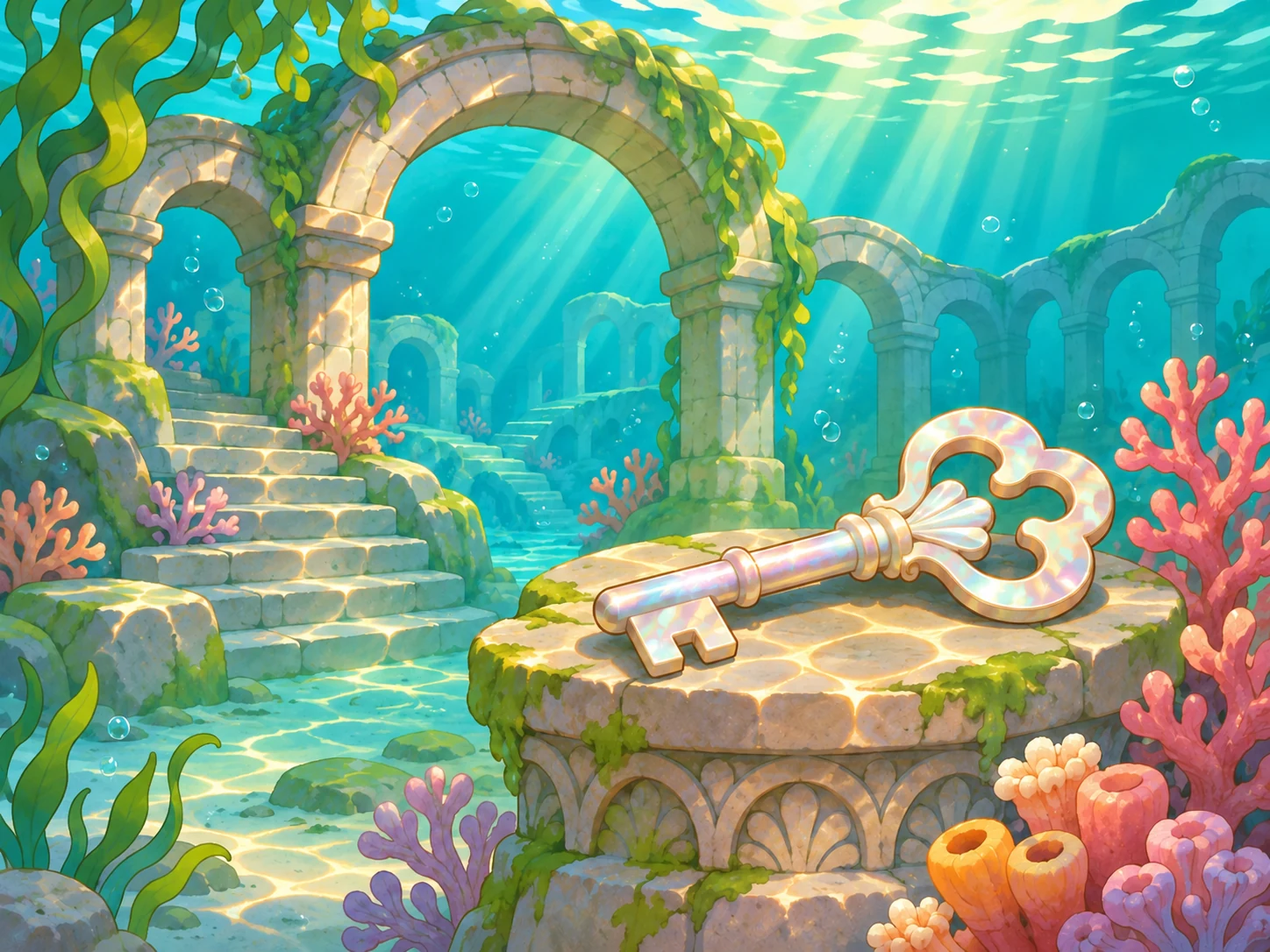
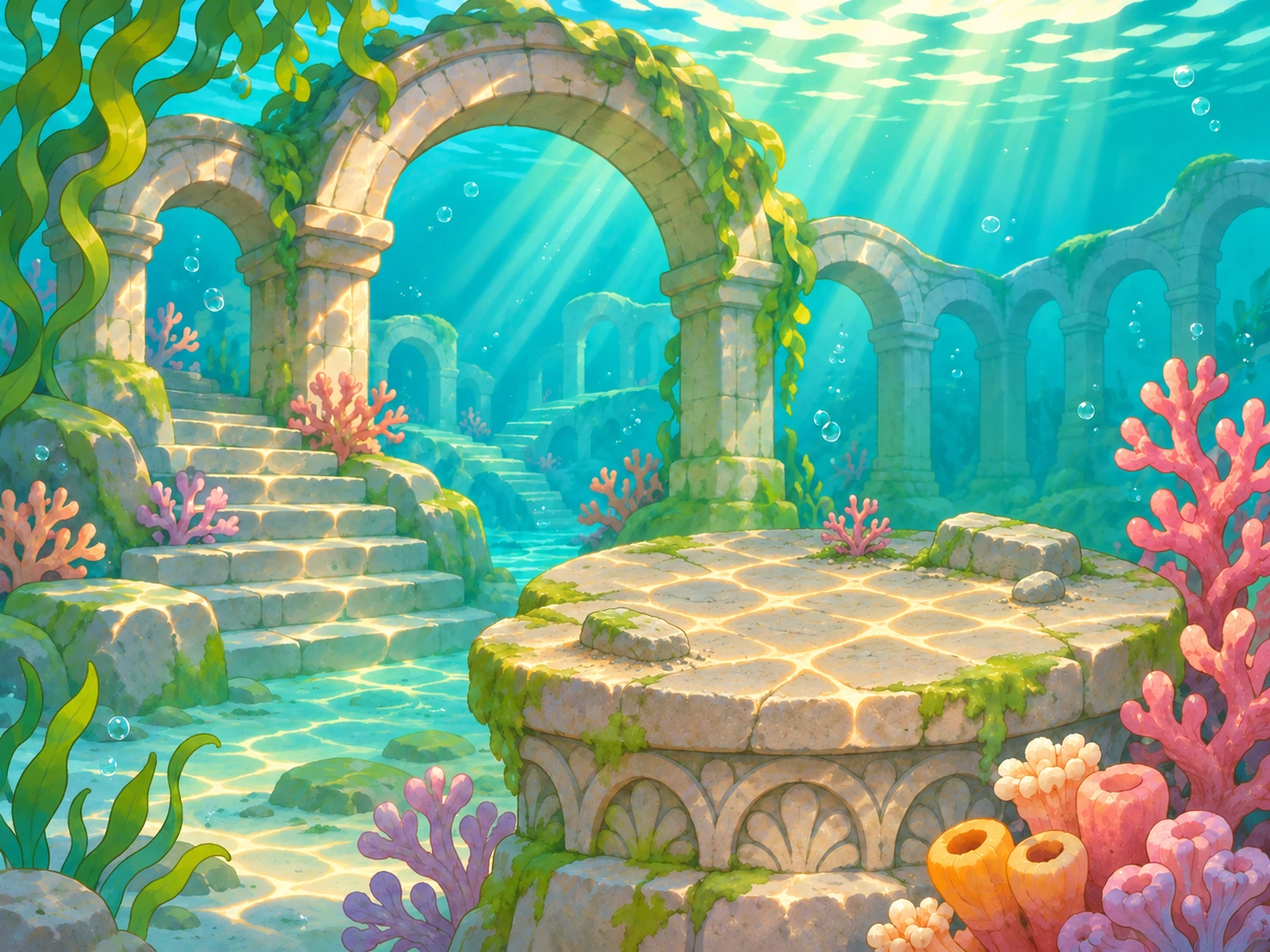
Complete the sunken ruins discovery and preserve living landscapes

diff --git a/src/game/ui/ruinsFish.ts b/src/game/ui/ruinsFish.ts
@@ -2,6 +2,43 @@ import Phaser from 'phaser';
 import { AdventureControls, reducedMotion } from './adventureMap';
 import type { WorldFrame } from './pilotWorlds';
 
+const schools = [
+  { key: 'near', width: 0.095, distantWidth: 0.060, from: { x: 0.381, y: 0.274 }, to: { x: 0.655, y: 0.399 },
+    a: { x: 0.48, y: 0.28 }, b: { x: 0.60, y: 0.37 } },
+  { key: 'far', width: 0.135, distantWidth: 0.060, from: { x: 0.872, y: 0.183 }, to: { x: 0.792, y: 0.367 },
+    a: { x: 0.76, y: 0.20 }, b: { x: 0.75, y: 0.32 } },
+];
+
+/** Static views and exploration share the exact paint, fish frames and placement. */
+export function prepareRuinsPostcard(scene: Phaser.Scene): void {
+  const key = 'destination-ruines_englouties';
+  if (!scene.textures.exists(key) || !scene.textures.exists('adventure-ruins-water')) return;
+  const previous = scene.textures.get(key).getSourceImage();
+  if (previous instanceof HTMLCanvasElement && previous.dataset.sharedRuinsFish) return;
+  if (!schools.every(school => scene.textures.exists(`adventure-ruins-fish-${school.key}`))) return;
+  const background = scene.textures.getFrame('adventure-ruins-water');
+  const canvas = document.createElement('canvas');
+  canvas.width = 2 ** Math.ceil(Math.log2(background.width));
+  canvas.height = 2 ** Math.ceil(Math.log2(background.height));
+  canvas.dataset.sharedRuinsFish = 'true';
+  const context = canvas.getContext('2d', { willReadFrequently: true });
+  if (!context) return;
+  context.imageSmoothingEnabled = true;
+  context.imageSmoothingQuality = 'high';
+  context.drawImage(background.source.image as CanvasImageSource,
+    background.cutX, background.cutY, background.cutWidth, background.cutHeight,
+    0, 0, background.width, background.height);
+  for (const school of schools) {
+    const fish = scene.textures.getFrame(`adventure-ruins-fish-${school.key}`);
+    const width = background.width * school.width, height = width * fish.height / fish.width;
+    context.drawImage(fish.source.image as CanvasImageSource,
+      fish.cutX, fish.cutY, fish.cutWidth, fish.cutHeight,
+      background.width * school.from.x - width / 2, background.height * school.from.y - height / 2, width, height);
+  }
+  scene.textures.remove(key);
+  scene.textures.addCanvas(key, canvas)?.get().setSize(background.width, background.height, 0, 0);
+}
+
 // Silhouettes of the existing columns and arch roofs along the two swim routes.
 // The foreground is sampled from the same background, so no stone is repainted.
 const stoneSilhouettes = [
@@ -40,32 +77,56 @@ function foregroundTexture(scene: Phaser.Scene): string | undefined {
   return key;
 }
 
-/** Two existing schools respond to touch. This activity never accesses storage. */
-export function addRuinsFish(scene: Phaser.Scene, controls: AdventureControls, art: WorldFrame): void {
+/** Persistence belongs to the scene; the fish report arrival after their swim. */
+export function addRuinsFish(scene: Phaser.Scene, controls: AdventureControls, art: WorldFrame,
+  visited: readonly number[], onArrival: (index: number, x: number, y: number) => void,
+  gathering = false): void {
   if (!['ruins-water', 'ruins-fish-near', 'ruins-fish-far'].every(id => scene.textures.exists(`adventure-${id}`))) return;
   const background = scene.children.getByName('exploration-art') as Phaser.GameObjects.Image | null;
   background?.setTexture('adventure-ruins-water').setDisplaySize(art.width, art.height);
-  const schools = [
-    { key: 'near', width: 0.095, distantWidth: 0.060, from: { x: 0.381, y: 0.274 }, to: { x: 0.655, y: 0.399 },
-      a: { x: 0.48, y: 0.28 }, b: { x: 0.60, y: 0.37 } },
-    { key: 'far', width: 0.135, distantWidth: 0.060, from: { x: 0.872, y: 0.183 }, to: { x: 0.792, y: 0.367 },
-      a: { x: 0.76, y: 0.20 }, b: { x: 0.75, y: 0.32 } },
-  ];
   const point = (p: { x: number; y: number }) => new Phaser.Math.Vector2(art.left + p.x * art.width, art.top + p.y * art.height);
-  for (const school of schools) {
+  schools.forEach((school, index) => {
     const home = point(school.from), other = point(school.to);
-    const fish = scene.add.image(home.x, home.y, `adventure-ruins-fish-${school.key}`)
-      .setName(`ruins-fish-${school.key}`).setData('swimming', false).setData('resting-place', 0);
-    fish.setScale(art.width * school.width / fish.width);
-    let busy = false, away = false;
+    let busy = false, away = visited.includes(index);
+    const start = away ? other : home;
+    const fish = scene.add.image(start.x, start.y, `adventure-ruins-fish-${school.key}`)
+      .setName(`ruins-fish-${school.key}`).setData('swimming', false).setData('resting-place', away ? 1 : 0);
+    fish.setScale(art.width * (away ? school.distantWidth : school.width) / fish.width);
     const name = `touch-fish-${school.key}`;
+    if (visited.length === schools.length) {
+      const phase = index * Math.PI;
+      const orbit = (angle: number) => point({ x: 0.42 + Math.cos(angle) * 0.055, y: 0.40 + Math.sin(angle) * 0.027 });
+      const rest = orbit(phase);
+      fish.setName(`ruins-fish-${school.key}`).setData('circling', true);
+      const circle = () => {
+        if (reducedMotion()) return;
+        const state = { angle: phase };
+        scene.tweens.add({ targets: state, angle: phase + Math.PI * 2, duration: 7000,
+          repeat: -1, onUpdate: () => {
+            const p = orbit(state.angle);
+            fish.setPosition(p.x, p.y).setFlipX(Math.sin(state.angle) > 0);
+          } });
+      };
+      const scale = art.width * 0.055 / fish.width;
+      if (gathering && !reducedMotion()) scene.tweens.add({ targets: fish,
+        x: rest.x, y: rest.y, scaleX: scale, scaleY: scale, duration: 1000, ease: 'Sine.InOut', onComplete: circle });
+      else { fish.setPosition(rest.x, rest.y).setScale(scale); circle(); }
+      return;
+    }
     const swim = () => {
       if (busy) return;
       busy = true;
       fish.setData('swimming', true);
       if (reducedMotion()) {
         scene.tweens.add({ targets: fish, alpha: { from: 0.5, to: 1 }, duration: 220,
-          onComplete: () => { busy = false; fish.setData('swimming', false); } });
+          onComplete: () => {
+            away = !away; busy = false;
+            const destination = away ? other : home;
+            fish.setPosition(destination.x, destination.y).setData('swimming', false).setData('resting-place', away ? 1 : 0);
+            fish.setScale(art.width * (away ? school.distantWidth : school.width) / fish.width);
+            controls.move(name, fish.x, fish.y);
+            onArrival(index, fish.x, fish.y);
+          } });
         return;
       }
       const destination = away ? home : other;
@@ -87,10 +148,11 @@ export function addRuinsFish(scene: Phaser.Scene, controls: AdventureControls, a
           .setData('swimming', false).setData('resting-place', away ? 1 : 0);
         fish.setScale(art.width * (away ? school.distantWidth : school.width) / fish.width);
         controls.move(name, fish.x, fish.y);
+        onArrival(index, fish.x, fish.y);
       } });
     };
-    controls.add(name, home.x, home.y, Math.max(44, art.width * school.width), 44, swim, false);
-  }
+    controls.add(name, start.x, start.y, Math.max(44, art.width * school.width), 44, swim, false);
+  });
   const foreground = foregroundTexture(scene);
   if (foreground) scene.add.image(art.left + art.width / 2, art.top + art.height / 2, foreground)
     .setDisplaySize(art.width, art.height).setName('ruins-fish-foreground');

diff --git a/src/game/scenes/ExplorationScene.ts b/src/game/scenes/ExplorationScene.ts
@@ -77,14 +77,16 @@ export class ExplorationScene extends Phaser.Scene {
       this.lastActivated = true; this.render(); return;
     }
     const result = progressStore.touchExploration(id, index);
-    if (id === 'archipel_azur' && !result.activated) return;
+    if ((id === 'archipel_azur' || id === 'ruines_englouties') && !result.activated) return;
+    // Keep the other school's in-progress swim alive after the first arrival.
+    if (id === 'ruines_englouties' && !result.collected) return;
     this.lastTouched = index;
     this.lastActivated = result.activated;
     this.celebrate = result.collected;
     this.justFound ||= result.collected;
-    this.souvenirArrival = (id === 'archipel_azur' || id === 'cimes_eternelles') && result.collected;
+    this.souvenirArrival = (id === 'archipel_azur' || id === 'cimes_eternelles' || id === 'ruines_englouties') && result.collected;
     this.render();
-    if (result.collected && id !== 'archipel_azur' && id !== 'cimes_eternelles') this.collectSouvenir(x, y);
+    if (result.collected && id === 'mycelia') this.collectSouvenir(x, y);
     if (id === 'mycelia' && !result.activated && !reducedMotion()) {
       const window = this.children.getByName(`mycelia-window-${index}`) as Phaser.GameObjects.Image | null;
       if (window) this.tweens.add({ targets: window, alpha: { from: 0.45, to: 1 }, duration: 240 });
@@ -120,21 +122,22 @@ export class ExplorationScene extends Phaser.Scene {
     this.celebrate = false;
     this.lastTouched = undefined;
     this.lastActivated = false;
-    const instruction = this.souvenirInFlight ? this.id === 'cimes_eternelles' ? copy.cloudsParting : copy.souvenirForming
+    const instruction = this.souvenirInFlight ? this.id === 'cimes_eternelles' ? copy.cloudsParting
+      : this.id === 'ruines_englouties' ? copy.fishGathering : copy.souvenirForming
       : this.offering ? copy.placeBell : !complete
       ? this.id === 'cimes_eternelles' ? copy.peaksMood : this.id === 'mycelia' ? copy.windowsMood : copy.search
       : awake ? copy.awakened : this.id === 'cimes_eternelles' ? copy.sunrise : copy.explored;
     mapText(this, sideX, stage.bodyY + 12, instruction, portrait || short ? 12 : 15, sideW - 15)
       .setFontFamily('Georgia, serif').setName('exploration-instruction');
 
-    if (isPilot(this.id) && this.id !== 'archipel_azur') {
+    if (isPilot(this.id) && this.id !== 'archipel_azur' && this.id !== 'ruines_englouties') {
       const pilot = this.id;
       pilotTargets[pilot].forEach((target, index) => {
         const x = left + artW * target.x, y = top + artH * target.y;
         this.controls.add(`${pilot === 'mycelia' ? 'window' : 'peak'}-${index}`, x, y, 44, 44,
           () => this.touch(pilot, index, x, y), false);
       });
-    } else if (!found && this.id !== 'archipel_azur') {
+    } else if (!found && !isPilot(this.id)) {
       // Other destinations retain their provisional interaction without sparkle markers.
       const seed = [...this.id].reduce((n, char) => n + char.charCodeAt(0), 0);
       const x = left + artW * (0.32 + seed % 4 * 0.1), y = top + artH * 0.58;
@@ -145,7 +148,8 @@ export class ExplorationScene extends Phaser.Scene {
 
     if (this.id === 'archipel_azur') addArchipelagoReflections(this, this.controls, stage.art,
       (index, x, y) => this.touch('archipel_azur', index, x, y), steps);
-    if (this.id === 'ruines_englouties') addRuinsFish(this, this.controls, stage.art);
+    if (this.id === 'ruines_englouties') addRuinsFish(this, this.controls, stage.art, steps,
+      (index, x, y) => this.touch('ruines_englouties', index, x, y), this.souvenirInFlight);
 
     const canOffer = this.id === 'mycelia' && progressStore.unlockedSouvenirIds().includes('cimes_eternelles')
       && !awake && this.session?.visitedDestinationIds.includes('mycelia');
@@ -203,6 +207,9 @@ export class ExplorationScene extends Phaser.Scene {
     if (this.souvenirInFlight) {
       if (this.id === 'archipel_azur') {
         gatherArchipelagoLight(this, stage.art, (x, y) => this.collectSouvenir(x, y, () => this.render(), true));
+      } else if (this.id === 'ruines_englouties') {
+        this.tweens.addCounter({ from: 0, to: 1, duration: 1300, onComplete: () =>
+          this.collectSouvenir(left + artW * 0.42, top + artH * 0.40, () => this.render(), true) });
       } else {
         this.tweens.addCounter({ from: 0, to: 1, duration: 1400, onComplete: () =>
           this.collectSouvenir(left + artW * 0.13, top + artH * 0.25, () => this.render()) });

diff --git a/src/tests/ruinsExploration.test.ts b/src/tests/ruinsExploration.test.ts
@@ -1,0 +1,32 @@
+import { describe, expect, it } from 'vitest';
+import { ProgressStore, decodeProgress } from '../services/storage';
+import { createSession, beginTravel, revealResult } from '../domain/session';
+
+describe('clé des ruines et deux bancs distincts', () => {
+  it('reprend le premier banc, refuse les répétitions et collecte une seule fois sans débiter', () => {
+    let saved: string | null = null;
+    const storage = { getItem: () => saved, setItem: (_key: string, value: string) => { saved = value; } };
+    const first = new ProgressStore(() => storage);
+    first.saveSession(revealResult(beginTravel(createSession(), ['water', 'ruins'])));
+    expect(first.explore('ruines_englouties')).toBe(false);
+    expect(first.touchExploration('ruines_englouties', 1).collected).toBe(false);
+    const next = new ProgressStore(() => storage);
+    expect(next.explorationSteps('ruines_englouties')).toEqual([1]);
+    expect(next.touchExploration('ruines_englouties', 1).activated).toBe(false);
+    expect(next.unlockedSouvenirIds()).toEqual([]);
+    expect(next.touchExploration('ruines_englouties', 0).collected).toBe(true);
+    expect(next.touchExploration('ruines_englouties', 0).collected).toBe(false);
+    expect(next.unlockedSouvenirIds()).toEqual(['ruines_englouties']);
+    expect(next.read().expedition?.charges).toBe(9);
+  });
+
+  it('valide les étapes et conserve la clé des anciennes sauvegardes', () => {
+    expect(decodeProgress(JSON.stringify({ schemaVersion: 1, discoveredDestinationIds: ['ruines_englouties'],
+      pendingSouvenirIds: ['ruines_englouties'], pilotSteps: { ruines_englouties: [1, 1, -1, 2, '0'] } }))
+      .pilotSteps?.ruines_englouties).toEqual([1]);
+    const legacy = new ProgressStore(() => ({ getItem: () => JSON.stringify({ schemaVersion: 1,
+      discoveredDestinationIds: ['ruines_englouties'] }), setItem: () => {} }));
+    expect(legacy.explorationSteps('ruines_englouties')).toEqual([0, 1]);
+    expect(legacy.touchExploration('ruines_englouties', 0).collected).toBe(false);
+  });
+});

diff --git a/src/game/ui/pilotWorlds.ts b/src/game/ui/pilotWorlds.ts
@@ -17,19 +17,20 @@ export function drawCimesSunrise(scene: Phaser.Scene, art: WorldFrame, complete:
       .setDisplaySize(art.width, art.height).setAlpha(0).setName('cimes-sunrise');
     scene.tweens.add({ targets: sunrise, alpha: 1, duration: 1400, ease: 'Sine.InOut' });
   } else if (complete) background.setTexture('destination-cimes_eternelles').setDisplaySize(art.width, art.height);
-  if ((complete && !transition) || (complete && reducedMotion())) return;
   const mistKeys = ['high', 'left', 'right'];
   pilotTargets.cimes_eternelles.forEach((peak, index) => {
     if (!visited.includes(index)) return;
     const key = `adventure-cimes-mist-${mistKeys[index]}`;
     if (!scene.textures.exists(key)) return;
-    const x = art.left + art.width * peak.x, y = art.top + art.height * (peak.y + 0.065);
+    const x = art.left + art.width * peak.x, y = art.top + art.height * (peak.y + 0.025);
+    const restingX = x + art.width * (index === 2 ? 0.025 : -0.035);
     const cloud = scene.add.image(x, y, key).setAlpha(0.8).setName(`cimes-peak-cloud-${index}`);
     cloud.setScale(art.width * (index === 0 ? 0.20 : 0.17) / cloud.width);
-    if (complete) {
-      scene.tweens.add({ targets: cloud, x: x + art.width * (index === 2 ? 0.035 : -0.07),
-        y: y - art.height * 0.015, alpha: 0, delay: 120, duration: 1100, ease: 'Sine.InOut',
-        onComplete: () => cloud.destroy() });
+    if (complete && transition && !reducedMotion()) {
+      scene.tweens.add({ targets: cloud, x: restingX,
+        alpha: 0.72, delay: 120, duration: 1100, ease: 'Sine.InOut' });
+    } else if (complete) {
+      cloud.setX(restingX).setAlpha(0.72);
     } else if (index === touched && newlyTouched && !reducedMotion()) {
       cloud.setAlpha(0).setY(y + 3);
       scene.tweens.add({ targets: cloud, alpha: 0.8, y, duration: 380, ease: 'Sine.Out' });

diff --git a/src/game/ui/archipelagoReflections.ts b/src/game/ui/archipelagoReflections.ts
@@ -11,8 +11,24 @@ export function addArchipelagoReflections(scene: Phaser.Scene, controls: Adventu
   onTouch: (index: number, x: number, y: number) => void, touched: readonly number[] = []): void {
   reflections.forEach((reflection, index) => {
     const x = art.left + reflection.x * art.width, y = art.top + reflection.y * art.height;
-    if (touched.includes(index)) scene.add.ellipse(x, y + 3, Math.max(14, art.width * 0.035),
-      Math.max(4, art.height * 0.012)).setStrokeStyle(1, 0xf2ffe7, 0.28).setName(`sea-reflection-visited-${index}`);
+    if (touched.includes(index)) {
+      const water = scene.add.container(x, y).setName(`sea-reflection-visited-${index}`);
+      const size = Math.max(12, art.width * 0.045);
+      const glint = scene.add.graphics().lineStyle(1.5, 0xfff1bb, 0.85)
+        .lineBetween(-size * 0.24, 0, size * 0.24, 0)
+        .lineBetween(0, -size * 0.36, 0, size * 0.36);
+      water.add(glint);
+      for (let ring = 0; ring < 2; ring++) {
+        const ripple = scene.add.ellipse(0, size * 0.22, size * (1 + ring * 0.65), size * (0.25 + ring * 0.16))
+          .setStrokeStyle(1, 0xf2ffe7, ring ? 0.35 : 0.65);
+        water.add(ripple);
+        if (!reducedMotion()) scene.tweens.add({ targets: ripple,
+          scaleX: 1.18, scaleY: 1.18, alpha: 0.45,
+          delay: index * 170 + ring * 260, duration: 1800, yoyo: true, repeat: -1, ease: 'Sine.InOut' });
+      }
+      if (!reducedMotion()) scene.tweens.add({ targets: glint, alpha: 0.4,
+        delay: index * 210, duration: 1600, yoyo: true, repeat: -1, ease: 'Sine.InOut' });
+    }
     const respond = () => {
       // Progress can redraw the tag; create the water response after that redraw.
       onTouch(index, x, y);

diff --git a/src/game/ui/illustrationTextures.ts b/src/game/ui/illustrationTextures.ts
@@ -1,4 +1,5 @@
 import Phaser from 'phaser';
+import { prepareRuinsPostcard } from './ruinsFish';
 
 /** Prepare cached, mipmapped textures for strong downscaling in cards and thumbnails. */
 export function prepareIllustrationTextures(scene: Phaser.Scene): void {
@@ -49,4 +50,5 @@ export function prepareIllustrationTextures(scene: Phaser.Scene): void {
       else prepared?.get().setSize(width, height, 0, 0);
     } else prepared?.get().setSize(width, height, 0, 0);
   }
+  prepareRuinsPostcard(scene);
 }

diff --git a/src/domain/pilotExploration.ts b/src/domain/pilotExploration.ts
@@ -1,5 +1,6 @@
-export const pilotTargetCounts = { cimes_eternelles: 3, mycelia: 5, archipel_azur: 6 } as const;
+export const pilotTargetCounts = { cimes_eternelles: 3, mycelia: 5, archipel_azur: 6, ruines_englouties: 2 } as const;
 export const pilotTargets = {
+  ruines_englouties: [{ x: 0.381, y: 0.274 }, { x: 0.872, y: 0.183 }],
   archipel_azur: [
     { x: 0.272, y: 0.433 }, { x: 0.372, y: 0.380 }, { x: 0.288, y: 0.588 },
     { x: 0.718, y: 0.737 }, { x: 0.942, y: 0.423 }, { x: 0.662, y: 0.912 },

diff --git a/docs/DESTINATION_ACTIVITIES.md b/docs/DESTINATION_ACTIVITIES.md
@@ -1,5 +1,11 @@
 # Petits jeux des 30 destinations
 
+> **Ruines — clé branchée, à essayer :** chacun des deux bancs existants doit avoir achevé au moins un déplacement, dans un ordre libre. Les répétitions ne font pas avancer la collecte. La première arrivée est sauvegardée et retrouve son emplacement à la revisite ; aucun débit supplémentaire. À la seconde, les poissons se rejoignent dans la grande ouverture dégagée, commencent une ronde et une clé se forme brièvement dans l'eau avant de rejoindre l'étiquette kraft. L'étiquette reste anonyme jusqu'à la fin de l'envol. La ronde reste ensuite visible, y compris après rechargement ; le mouvement réduit garde les deux groupes réunis sans mouvement continu. Les clés des anciennes sauvegardes restent acquises. L'ancien point de collecte invisible est supprimé. Les étapes utilisent `pilotSteps.ruines_englouties`, sans nouveau champ de sauvegarde.
+
+> **Ruines — décor retouché :** la grosse clé a été retirée de l'exploration et de la carte postale, au profit de dalles, de sable, de quelques pierres et d'un petit corail. Les poissons conservent leurs couleurs et leurs formes entre les deux vues. La réunion des bancs, leur ronde et l'envol de la clé sont désormais intégrés, comme décrit ci-dessus. [Sources de la retouche](ADVENTURE_ASSETS.md).
+
+> **Trace durable après exploration — nouvel essai :** les trois brumes des Cimes sont remontées de 4 % de la hauteur du paysage. Au lever du soleil, elles s'écartent légèrement mais restent autour des sommets, y compris après retour et rechargement. Les reflets touchés de l'Archipel gardent deux rides et une lumière lente, plus présentes que les anciennes ondulations. Le mouvement réduit conserve ces états sans animation continue. Aucun nouveau champ de sauvegarde ni changement de collecte.
+
 ## Intention et statut
 
 **Cimes éternelles — nuages après toucher, idée du joueur intégrée :** un petit voile de nuage apparaît sous chaque sommet touché sans cacher sa pointe. Les nuages se déduisent des étapes déjà sauvegardées, restent visibles après une reprise partielle et ne se multiplient pas lors d’un nouveau toucher sur le même pic. Au troisième sommet, ils s’écartent pendant le lever du soleil ; la clochette rejoint ensuite l’étiquette, qui reste anonyme jusqu’à l’arrivée. Le mouvement réduit affiche directement les états sans déplacement. Trois voiles de brume dédiés, créés à partir de la peinture des Cimes, remplacent le pictogramme de nuage initial. Leurs proportions sont conservées ; aucune règle de collecte ne change.

diff --git a/docs/ADVENTURE_ASSETS.md b/docs/ADVENTURE_ASSETS.md
@@ -1,5 +1,9 @@
 # Assets de la carte et des escales
 
+## Ruines sans clé — retouche du décor
+
+La grosse clé est retirée des deux fonds avec **image_gen intégré**. La terrasse retrouve des dalles usées, un peu de sable, quelques pierres et un petit corail, sans coffre ni serrure annonçant le souvenir. Les arches, la composition et les deux sprites de poissons sont conservés. `public/assets/adventure/ruins-water.webp` sert aux poissons animés. Après préparation des textures, la carte postale est composée avec ce même fond et ces mêmes sprites, aux mêmes positions et proportions : les poissons ne changent plus de couleur ou de forme au clic sur Explorer. Les paramètres des deux bancs sont partagés dans `ruinsFish.ts`. L'export statique généré `public/assets/destinations/ruines_englouties.webp` reste conservé comme source de repli ; sa variante de poissons n'est plus montrée en jeu. Sources PNG et [prompts exacts](../designs/adventure/ruins-without-key-v1/prompts.json) dans `designs/adventure/ruins-without-key-v1/`, exports WebP qualité 95, 1448 × 1086. Les anciens originaux restent dans `designs/adventure/ruins-fish-v1/` et `designs/destinations/collection-v1/`. Cette passe ne modifie pas le déblocage du souvenir ; la conclusion avec les poissons reste à développer.
+
 ## Brumes dédiées des Cimes
 
 Créées avec **image_gen intégré**, à partir de `public/assets/adventure/cimes-predawn.png`, après rejet du pictogramme de nuage réutilisé. Trois formes distinctes reprennent la peinture et les teintes de la mer de nuages des Cimes. Les sources PNG sont conservées dans `designs/adventure/cimes-mist-v1/` ; les [prompts exacts et chemins de génération](../designs/adventure/cimes-mist-v1/prompts.json) y sont enregistrés.
@@ -12,7 +16,7 @@ Outil : **image_gen intégré**, sans CLI ni clé API du projet. [Prompts exacts
 
 | Export | Utilisation |
 | --- | --- |
-| `ruins-water.webp` | Fond dérivé sans les deux bancs fixes ; arches, végétation, clé et ambiance conservées. |
+| `ruins-water.webp` | Fond dérivé sans les deux bancs fixes, désormais sans la clé ; arches, végétation et ambiance conservées. |
 | `ruins-fish-near.webp` | Les quatre poissons clairs de la grande arche, isolés sur fond transparent. |
 | `ruins-fish-far.webp` | Le banc distant du coin supérieur droit, isolé sur fond transparent. |
 

diff --git a/docs/ADVENTURE_MAP.md b/docs/ADVENTURE_MAP.md
@@ -1,5 +1,7 @@
 # Prototype — La carte d’aventure
 
+> **Ruines englouties — collecte locale :** les deux bancs de poissons existants débloquent la clé après leurs premières arrivées distinctes. Progression persistante, aucune charge dans le lieu, étiquette anonyme jusqu'à l'envol commun. Les deux bancs se réunissent ensuite dans une ronde persistante dans la grande arche ; arrêt du mouvement en mode réduit. La sauvegarde de la clé précède sa présentation pour résister à un départ ou un redimensionnement pendant l'animation. Voir [les activités](DESTINATION_ACTIVITIES.md).
+
 > **Cimes — trace des sommets touchés :** idée du joueur intégrée : un voile de nuage peint se forme sous chaque pointe activée. Il persiste après retour ou rechargement partiel, sans doublon lors d’une répétition. Au dernier sommet, les nuages s’écartent avec le lever du soleil, puis la clochette utilise l’envol commun vers son étiquette restée anonyme. Trois brumes peintes dédiées remplacent le pictogramme de nuage, rejeté après essai pour son décalage avec le paysage. Aucun champ de sauvegarde supplémentaire. Une interruption ou la réduction des animations affiche directement la récompense déjà acquise.
 
 Vérifications : build TypeScript/Vite et 84 tests existants réussis. Chrome sous `/jam/` en FR à 960 × 540 et 320 × 568, en EN à 640 × 360 et 360 × 640, avec toucher simulé sur les portraits : zéro nuage initial, un par pic activé, absence de doublons, reprise partielle, dispersion au lever du soleil avant l’envol de la clochette, étiquette anonyme jusqu’à l’arrivée. Captures contrôlées. Réduction du mouvement, interruption du lever de soleil au redimensionnement, sortie en cours d’envol, conseil différé et parcours Archipel/Mycélia revérifiés sans erreur JavaScript/HTTP. Firefox et tactile physique restent à vérifier.
